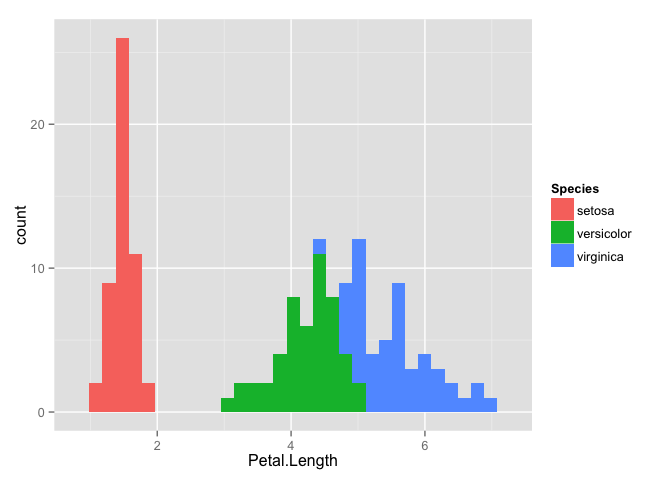
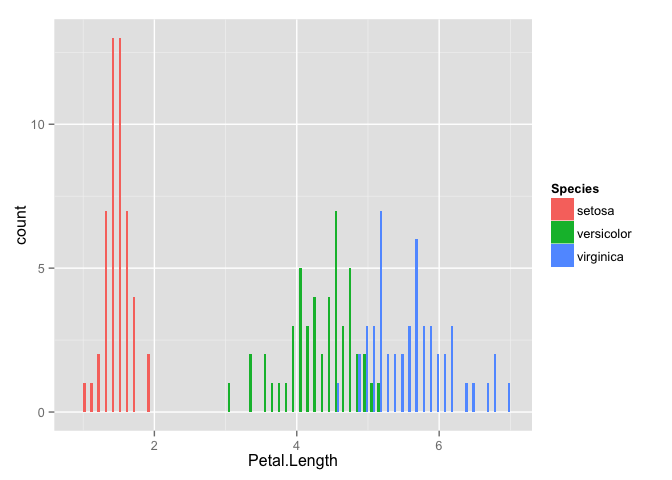
density plots to iris egs

diff --git a/03-plotting.html b/03-plotting.html
@@ -203,18 +203,20 @@ g</code></pre>
 ## stat_bin: binwidth defaulted to range/30. Use &#39;binwidth = x&#39; to adjust this.
 ## stat_bin: binwidth defaulted to range/30. Use &#39;binwidth = x&#39; to adjust this.</code></pre>
 <p><img src="03-plotting_files/figure-html/irisexamples2.png" alt="plot of chunk irisexamples" /></p>
-<pre class="sourceCode r"><code class="sourceCode r"><span class="kw">ggplot</span>(dat, <span class="kw">aes</span>(<span class="dt">x=</span>Petal.Length, <span class="dt">fill=</span>Species)) +<span class="st"> </span><span class="kw">geom_histogram</span>()</code></pre>
-<pre><code>## stat_bin: binwidth defaulted to range/30. Use &#39;binwidth = x&#39; to adjust this.</code></pre>
+<pre class="sourceCode r"><code class="sourceCode r"><span class="kw">ggplot</span>(dat, <span class="kw">aes</span>(<span class="dt">x=</span>Petal.Length, <span class="dt">fill=</span>Species)) +<span class="st"> </span>
+<span class="st">  </span><span class="kw">geom_histogram</span>(<span class="dt">position=</span><span class="st">&quot;dodge&quot;</span>, <span class="dt">binwidth=</span><span class="fl">0.1</span>)</code></pre>
 <p><img src="03-plotting_files/figure-html/irisexamples3.png" alt="plot of chunk irisexamples" /></p>
-<pre class="sourceCode r"><code class="sourceCode r"><span class="kw">ggplot</span>(dat, <span class="kw">aes</span>(<span class="dt">x=</span>Species, <span class="dt">y=</span>Sepal.Length)) +<span class="st"> </span><span class="kw">geom_boxplot</span>()</code></pre>
+<pre class="sourceCode r"><code class="sourceCode r"><span class="kw">ggplot</span>(dat, <span class="kw">aes</span>(<span class="dt">x=</span>Petal.Length, <span class="dt">fill=</span>Species)) +<span class="st"> </span>
+<span class="st">  </span><span class="kw">geom_density</span>(<span class="dt">alpha=</span><span class="fl">0.5</span>)</code></pre>
 <p><img src="03-plotting_files/figure-html/irisexamples4.png" alt="plot of chunk irisexamples" /></p>
+<pre class="sourceCode r"><code class="sourceCode r"><span class="kw">ggplot</span>(dat, <span class="kw">aes</span>(<span class="dt">x=</span>Species, <span class="dt">y=</span>Sepal.Length)) +<span class="st"> </span><span class="kw">geom_boxplot</span>()</code></pre>
+<p><img src="03-plotting_files/figure-html/irisexamples5.png" alt="plot of chunk irisexamples" /></p>
 <pre class="sourceCode r"><code class="sourceCode r"><span class="kw">ggplot</span>(dat, <span class="kw">aes</span>(<span class="dt">x=</span>Species, <span class="dt">y=</span>Sepal.Width, <span class="dt">fill=</span>Species)) +<span class="st"> </span><span class="kw">geom_violin</span>()</code></pre>
 <pre><code>## Warning: Removed 5 rows containing non-finite values (stat_ydensity).</code></pre>
-<p><img src="03-plotting_files/figure-html/irisexamples5.png" alt="plot of chunk irisexamples" /></p>
+<p><img src="03-plotting_files/figure-html/irisexamples6.png" alt="plot of chunk irisexamples" /></p>
 <p>What if we want to split up the measurements and compare them all? We need the type of measurement (<code>Petal.length</code>, <code>Petal.Width</code>) as a variable rather than each as a column heading. There is another package by Hadley Wickham (see a trend here?) that helps us restructure, or reshape our data: It’s called <code>reshape2</code>.</p>
-<pre class="sourceCode r"><code class="sourceCode r"><span class="kw">require</span>(reshape2)</code></pre>
-<pre><code>## Loading required package: reshape2</code></pre>
-<pre class="sourceCode r"><code class="sourceCode r">dat_long &lt;-<span class="st"> </span><span class="kw">melt</span>(dat)</code></pre>
+<pre class="sourceCode r"><code class="sourceCode r"><span class="kw">require</span>(reshape2)
+dat_long &lt;-<span class="st"> </span><span class="kw">melt</span>(dat)</code></pre>
 <pre><code>## Using Species as id variables</code></pre>
 <pre class="sourceCode r"><code class="sourceCode r"><span class="kw">head</span>(dat_long)</code></pre>
 <pre><code>##   Species     variable value

diff --git a/00-basics.html b/00-basics.html
@@ -157,7 +157,7 @@ hrs_per_week</code></pre>
 <pre class="sourceCode r"><code class="sourceCode r"><span class="kw">max</span>(<span class="dv">4</span>,<span class="dv">8</span>,<span class="dv">2</span>,<span class="dv">6</span>,<span class="dv">9</span>)</code></pre>
 <pre><code>## [1] 9</code></pre>
 <pre class="sourceCode r"><code class="sourceCode r"><span class="kw">date</span>() <span class="co"># Not all functions require arguments</span></code></pre>
-<pre><code>## [1] &quot;Mon May 26 22:34:00 2014&quot;</code></pre>
+<pre><code>## [1] &quot;Mon May 26 23:32:11 2014&quot;</code></pre>
 <div id="specifying-arguments" class="section level4">
 <h4>Specifying arguments</h4>
 <p>Arguments can be specified using <em>positional</em> and/or <em>named</em> matching. Some arguments have default values.</p>
@@ -200,17 +200,20 @@ hrs_per_week</code></pre>
 ## [1] en_CA.UTF-8/en_CA.UTF-8/en_CA.UTF-8/C/en_CA.UTF-8/en_CA.UTF-8
 ## 
 ## attached base packages:
-## [1] stats     graphics  grDevices utils     datasets  methods   base     
+## [1] grid      stats     graphics  grDevices utils     datasets  methods  
+## [8] base     
 ## 
 ## other attached packages:
-## [1] knitr_1.5        ggplot2_1.0.0    dplyr_0.2        rmarkdown_0.2.15
+## [1] reshape2_1.4     mgcv_1.7-29      nlme_3.1-117     hexbin_1.26.3   
+## [5] lattice_0.20-29  knitr_1.5        ggplot2_1.0.0    dplyr_0.2       
+## [9] rmarkdown_0.2.15
 ## 
 ## loaded via a namespace (and not attached):
 ##  [1] assertthat_0.1   colorspace_1.2-4 digest_0.6.4     evaluate_0.5.5  
-##  [5] formatR_0.10     grid_3.1.0       gtable_0.1.2     MASS_7.3-33     
-##  [9] munsell_0.4.2    parallel_3.1.0   plyr_1.8.1       proto_0.3-10    
-## [13] Rcpp_0.11.1      reshape2_1.4     scales_0.2.4     stringr_0.6.2   
-## [17] tools_3.1.0      yaml_2.1.11</code></pre>
+##  [5] formatR_0.10     gtable_0.1.2     labeling_0.2     magrittr_1.0.1  
+##  [9] MASS_7.3-33      Matrix_1.1-3     munsell_0.4.2    parallel_3.1.0  
+## [13] plyr_1.8.1       proto_0.3-10     Rcpp_0.11.1      scales_0.2.4    
+## [17] stringr_0.6.2    tools_3.1.0      yaml_2.1.11</code></pre>
 </div>
 </div>
 <div id="workspace" class="section level3">
